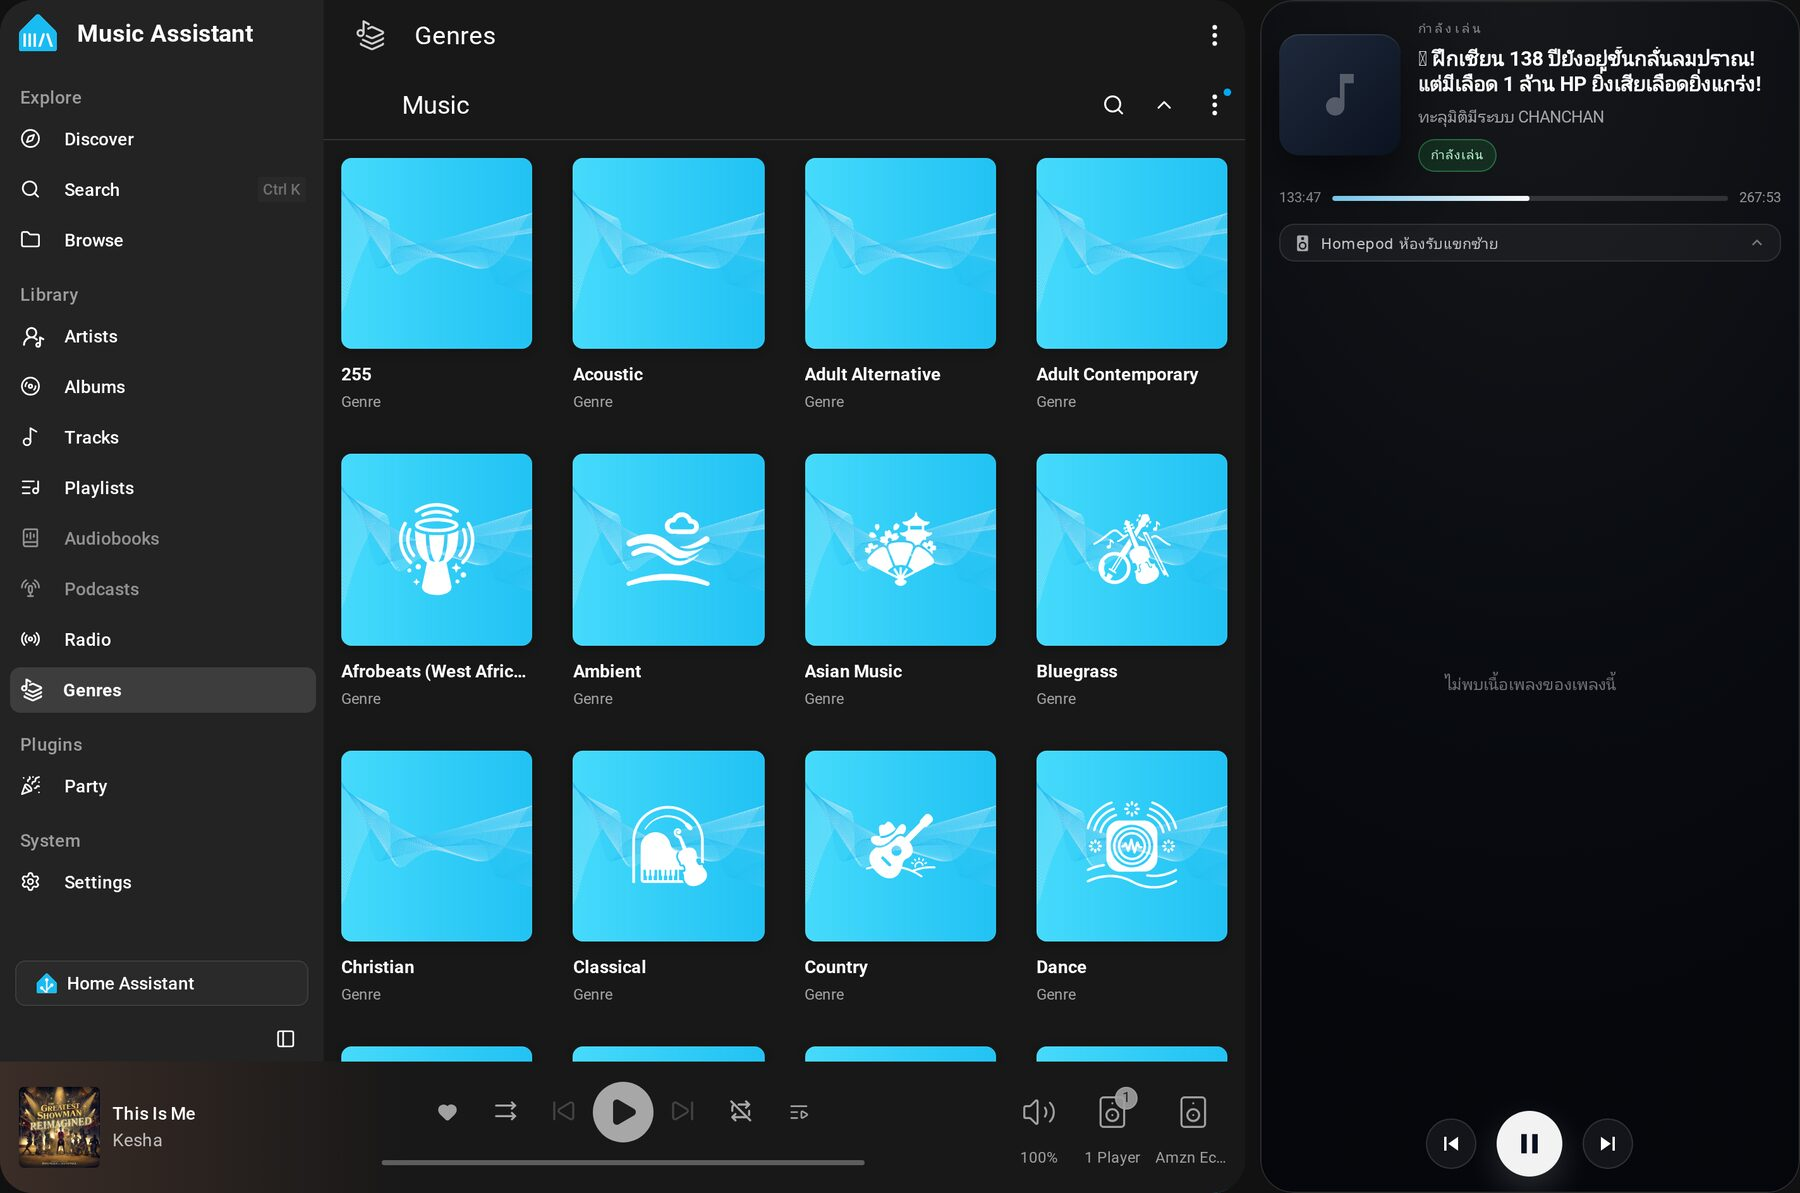
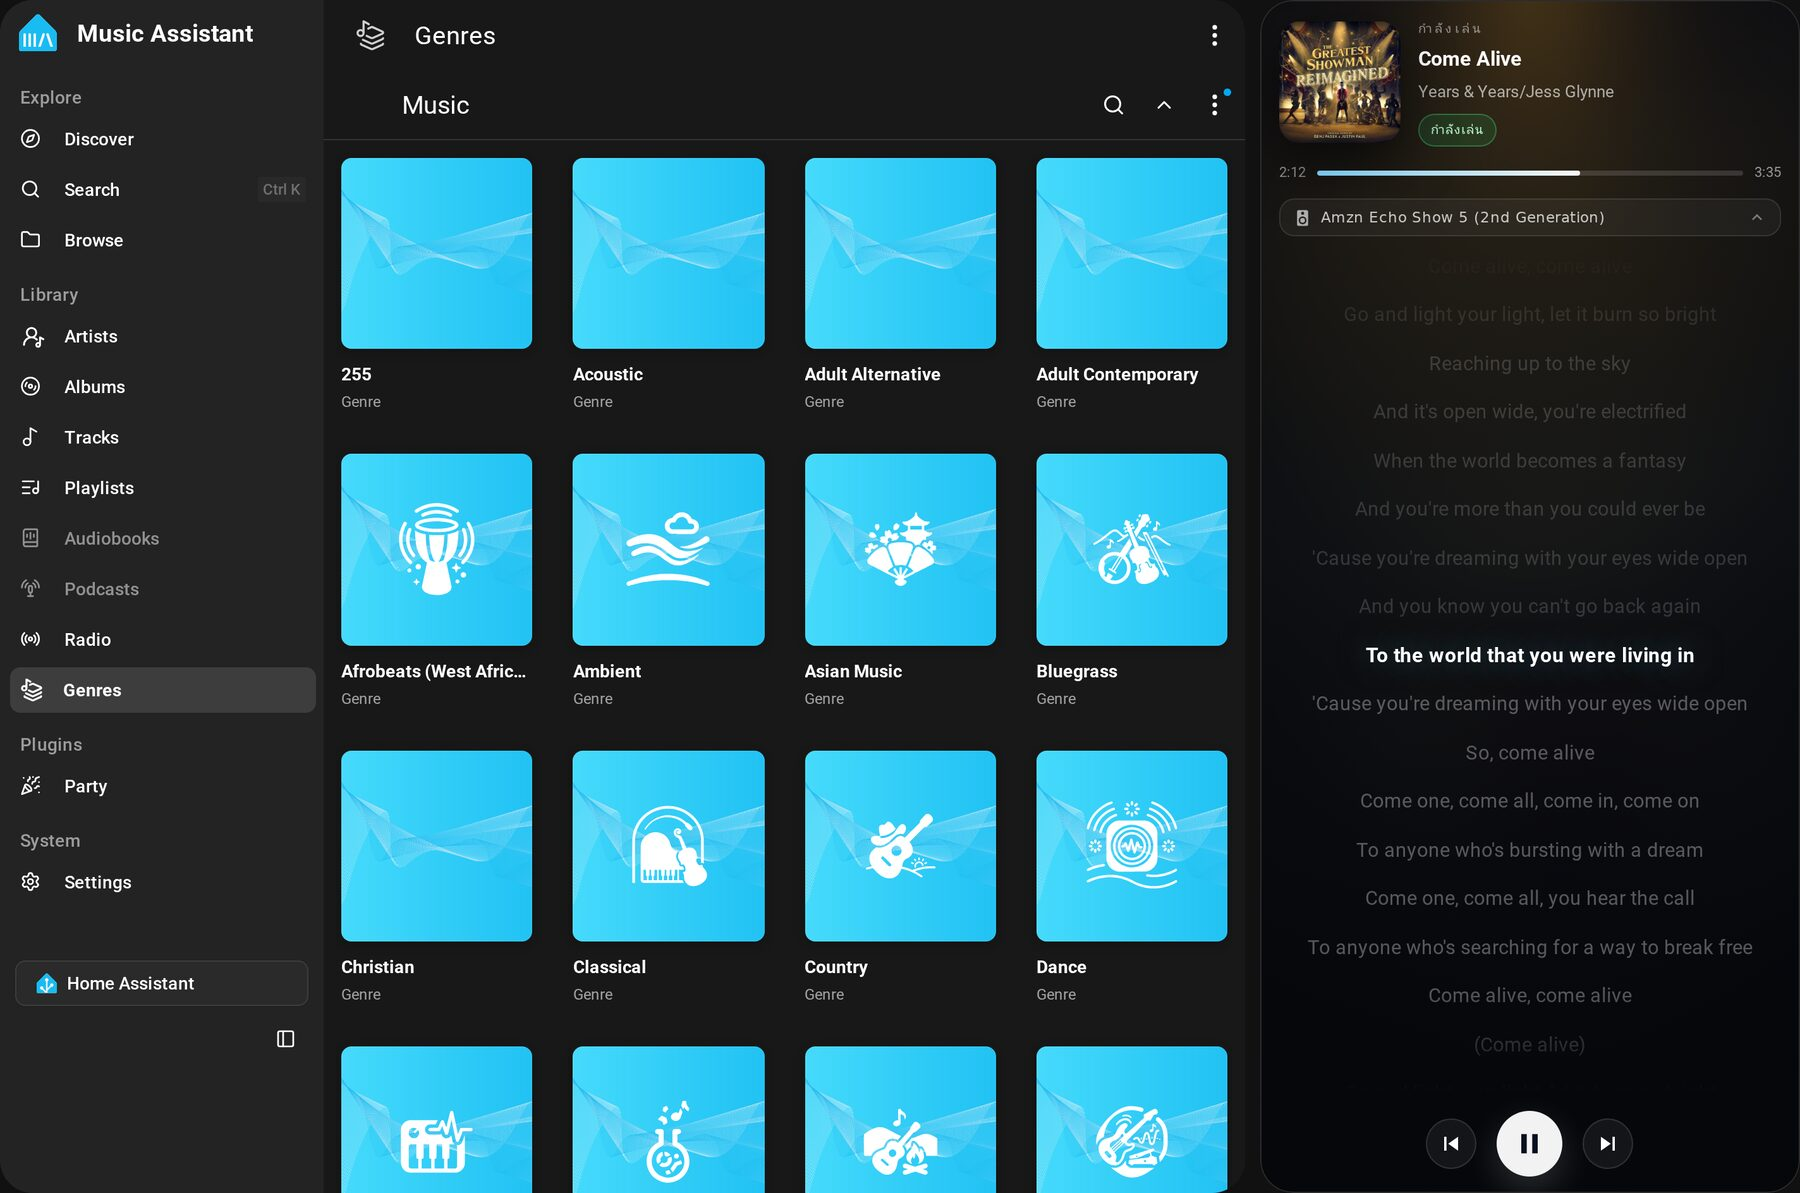
feat: hide Music Assistant player bar by default (single now-playing UI); refresh screenshots

diff --git a/README.md b/README.md
@@ -16,6 +16,7 @@ A single Home Assistant card that puts the Music Assistant web UI and a karaoke-
 - 🎵 **Music Assistant pane** — ฝัง UI ของ add-on ผ่าน Supervisor ingress (หา add-on เองอัตโนมัติ, ต่อ session ใหม่ให้ทุก 60 วินาที)
 - 🎤 **Karaoke panel** — ปกอัลบั้ม + แถบเวลา + ปุ่มควบคุม + **เนื้อเพลงซิงก์** จาก [LRCLIB](https://lrclib.net)
 - 🎯 **Player picker** — เลือกเครื่องเล่นจาก UI (ค้นหาได้) และจำค่าที่เลือกไว้ต่อ dashboard
+- 🧹 **Now-playing เดียว** — ซ่อนแถบ now-playing ของ Music Assistant ให้อัตโนมัติ (`hide_ma_player_bar`, ปิดได้)
 - 🔁 **Auto fallback** — ถ้าเครื่องที่เลือกไม่มีเนื้อเพลง (เช่นกำลังเล่น YouTube) จะสลับไปเครื่องที่กำลังเล่นเพลงให้
 - 🖼 **Artwork ผ่าน HA media proxy** — ไม่ติดปัญหา mixed content จาก URL `http://<lan-ip>:8095`
 - 🌏 ไทย / อังกฤษ, **ไม่ต้องมี dependency ภายนอก**, ทำงานออฟไลน์ได้ (ยกเว้นการดึงเนื้อเพลงครั้งแรก)
@@ -72,6 +73,8 @@ type: custom:music-station
 | `show_player_picker` | `true` | แถบเลือกเครื่องเล่น |
 | `prefer_lyrics` | `true` | สลับไปเครื่องที่มีเนื้อเพลงอัตโนมัติ |
 | `hide_music_assistant` | `false` | แสดงเฉพาะคาราโอเกะ (ใช้ได้บน HA ที่ไม่ใช่ HAOS) |
+| `hide_ma_player_bar` | `true` | ซ่อนแถบ now-playing ของ Music Assistant (เหลือ now-playing เดียวคือของเรา) |
+| `hide_ma_bottom_nav` | `false` | ซ่อนแถบเมนูล่างของ Music Assistant (ใช้กับ layout มือถือ) |
 
 ### ตัวอย่าง: แท็บเล็ต
 
